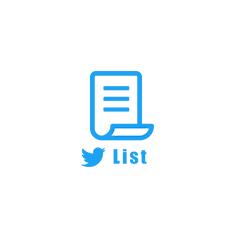
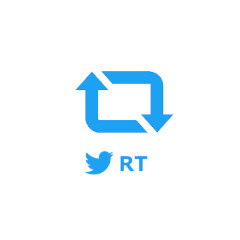
RT限定実装中

Changed region(s): [[0.3208, 0.2917, 0.7292, 0.7292]]

diff --git a/WebContent/css/TMaking-152.css b/WebContent/css/TMaking-152.css
@@ -776,6 +776,7 @@ Decoration
 .PublishIco08{ background-position: center; background-size: contain; background-image: url(/img/ico_follow.png);}
 .PublishIco09{ background-position: center; background-size: contain; background-image: url(/img/ico_ff.png);}
 .PublishIco10{ background-position: center; background-size: contain; background-image: url(/img/ico_list.png);}
+.PublishIco12{ background-position: center; background-size: contain; background-image: url(/img/ico_rt.png);}
 .PublishIco99{ background-position: center; background-size: contain; background-image: url(/img/ico_visible.png); background-color: #a0a0a0;}
 
 .IllustThumb .PublishLimitedPublished{

diff --git a/src/jp/pipa/poipiku/util/CCnv.java b/src/jp/pipa/poipiku/util/CCnv.java
@@ -726,6 +726,7 @@ public final class CCnv {
 				case Common.PUBLISH_ID_T_FOLLOWEE:
 				case Common.PUBLISH_ID_T_EACH:
 				case Common.PUBLISH_ID_T_LIST:
+				case Common.PUBLISH_ID_T_RT:
 					strFileUrl = Common.PUBLISH_ID_FILE[cContent.m_nPublishId];
 					bHidden = true;
 					break;
@@ -768,7 +769,7 @@ public final class CCnv {
 		// 公開種別マーク
 		strRtn.append("<span class=\"IllustInfoBottom\">");
 		if(checkLogin!=null && checkLogin.m_nUserId==cContent.m_nUserId){
-			if(cContent.m_nPublishId>=1 && cContent.m_nPublishId<=10) {
+			if(cContent.m_nPublishId>=1 && cContent.m_nPublishId<=12) {
 				strRtn.append(String.format("<span class=\"Publish PublishIco%02d\"></span>", cContent.m_nPublishId));
 			}
 		}
